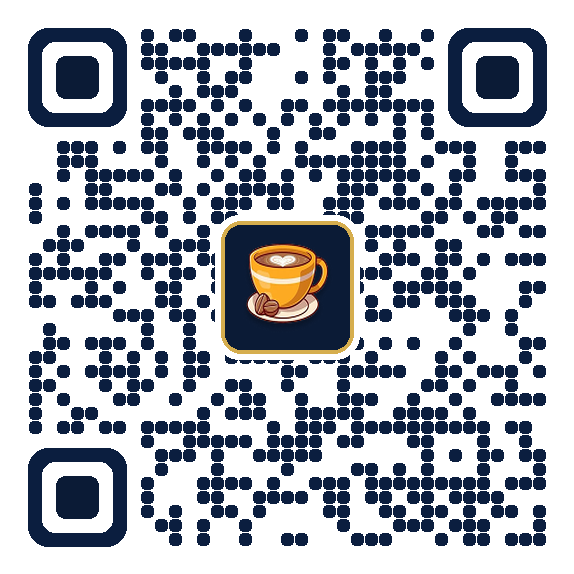
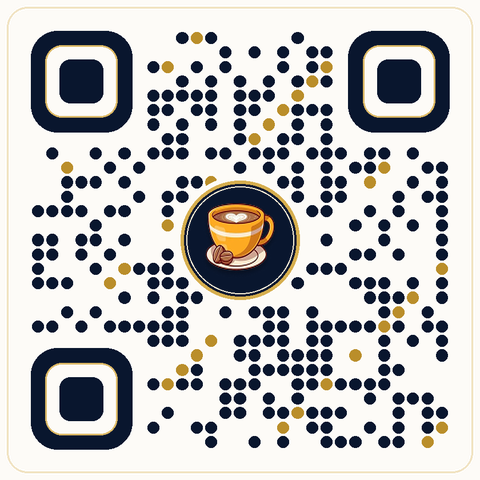
v5 Masterpiece: 29x29 airy pearl-dot gold-accented QR, fountain-pen autograph, warm ivory client chrome

diff --git a/index.html b/index.html
@@ -168,21 +168,21 @@
   }
 
   .desktop-window {
-    background: #FFFFFF;
+    background: #FDFCF9;
     border-radius: 20px;
-    border: 1px solid rgba(255, 255, 255, 0.14);
+    border: 1px solid rgba(214, 174, 78, 0.22);
     box-shadow:
-      0 32px 70px rgba(2, 8, 20, 0.55),
-      0 4px 16px rgba(2, 8, 20, 0.25);
+      0 36px 80px rgba(2, 8, 20, 0.62),
+      0 4px 18px rgba(2, 8, 20, 0.28);
     overflow: hidden;
     display: flex;
     flex-direction: column;
   }
 
   .win-chrome {
-    background: #F7F8FA;
-    border-bottom: 1px solid #EAEEF4;
-    padding: 13px 24px;
+    background: linear-gradient(180deg, #F7F5F0 0%, #EFECE4 100%);
+    border-bottom: 1px solid #E4DEC9;
+    padding: 13px 26px;
     display: flex;
     align-items: center;
     justify-content: space-between;
@@ -353,15 +353,16 @@
   }
 
   .calligraphy-row {
-    display: inline-flex;
-    flex-direction: column;
+    display: flex;
+    align-items: center;
+    justify-content: space-between;
     margin-bottom: 4px;
   }
 
   .calligraphy-greeting {
     font-family: 'Cormorant Garamond', Georgia, serif;
     font-style: italic;
-    font-size: 22px;
+    font-size: 21px;
     font-weight: 600;
     color: #9A7220;
     line-height: 1;
@@ -369,9 +370,17 @@
   }
 
   .calligraphy-flourish {
-    width: 138px;
-    height: 9px;
+    width: 132px;
+    height: 8px;
     margin-top: 3px;
+    display: block;
+  }
+
+  .autograph-svg {
+    width: 112px;
+    height: 36px;
+    overflow: visible;
+    opacity: 0.92;
   }
 
   .exec-name {
@@ -498,36 +507,54 @@
   /* Column 3: Sartorial Midnight Navy & Gold Foil Coffee Pass */
   .coffee-ticket {
     width: 196px;
-    background: linear-gradient(160deg, #112448 0%, #081328 100%);
-    border: 1px solid rgba(214, 174, 78, 0.38);
+    background:
+      radial-gradient(circle at 50% 38%, rgba(214, 174, 78, 0.14) 0%, transparent 68%),
+      linear-gradient(160deg, #12264C 0%, #071124 100%);
+    border: 1px solid rgba(214, 174, 78, 0.45);
     border-radius: 16px;
-    padding: 14px 13px 13px;
+    padding: 13px 13px 13px;
     text-align: center;
     position: relative;
     box-shadow:
-      0 16px 32px rgba(6, 16, 34, 0.22),
-      inset 0 1px 0 rgba(255, 255, 255, 0.12);
+      0 18px 36px rgba(6, 16, 34, 0.26),
+      inset 0 0 0 3px rgba(214, 174, 78, 0.08),
+      inset 0 1px 0 rgba(255, 255, 255, 0.16);
   }
 
   .ticket-header {
-    display: inline-flex;
+    display: flex;
     align-items: center;
-    justify-content: center;
-    gap: 6px;
-    font-size: 9.5px;
+    justify-content: space-between;
+    font-size: 8.5px;
     font-weight: 800;
-    letter-spacing: 0.2em;
+    letter-spacing: 0.16em;
     text-transform: uppercase;
     color: #E8C66A;
-    margin-bottom: 10px;
+    margin-bottom: 9px;
+    padding: 0 2px;
   }
 
-  .ticket-header svg {
-    width: 13px;
-    height: 13px;
+  .ticket-header-left {
+    display: inline-flex;
+    align-items: center;
+    gap: 5px;
+  }
+
+  .ticket-header-left svg {
+    width: 12px;
+    height: 12px;
     stroke: #E8C66A;
     stroke-width: 1.8;
     fill: none;
+  }
+
+  .ticket-serial {
+    font-family: 'Cormorant Garamond', Georgia, serif;
+    font-style: italic;
+    font-size: 11px;
+    font-weight: 700;
+    letter-spacing: 0.06em;
+    color: rgba(246, 230, 188, 0.78);
   }
 
   .ticket-qr-frame {
@@ -1022,14 +1049,29 @@
                 <!-- Column 2: Editorial Bio & Custom 1.5px Vector Contact Matrix -->
                 <td class="bio-col" valign="middle">
                   <div class="calligraphy-row">
-                    <span class="calligraphy-greeting">Cheers &amp; coffee soon,</span>
-                    <svg class="calligraphy-flourish" viewBox="0 0 140 10" fill="none" xmlns="http://www.w3.org/2000/svg">
-                      <path d="M2 7.5C38 2.2 88 1.8 138 6.2" stroke="url(#penGrad)" stroke-width="1.8" stroke-linecap="round"/>
+                    <div>
+                      <span class="calligraphy-greeting">Cheers &amp; coffee soon,</span>
+                      <svg class="calligraphy-flourish" viewBox="0 0 140 10" fill="none" xmlns="http://www.w3.org/2000/svg">
+                        <path d="M2 7.5C38 2.2 88 1.8 138 6.2" stroke="url(#penGrad)" stroke-width="1.8" stroke-linecap="round"/>
+                        <defs>
+                          <linearGradient id="penGrad" x1="2" y1="5" x2="138" y2="5" gradientUnits="userSpaceOnUse">
+                            <stop offset="0%" stop-color="#C59B27"/>
+                            <stop offset="75%" stop-color="#D6AE4E" stop-opacity="0.65"/>
+                            <stop offset="100%" stop-color="#D6AE4E" stop-opacity="0"/>
+                          </linearGradient>
+                        </defs>
+                      </svg>
+                    </div>
+                    <!-- Bespoke Fountain-Pen Calligraphic Autograph ("Tanya") -->
+                    <svg class="autograph-svg" viewBox="0 0 150 48" fill="none" xmlns="http://www.w3.org/2000/svg" aria-hidden="true">
+                      <path d="M14 14C34 10 58 8 76 11M42 10C37 22 31 35 28 42C27 44 31 44 36 39" stroke="#112448" stroke-width="2.1" stroke-linecap="round" stroke-linejoin="round" opacity="0.82"/>
+                      <path d="M44 31C48 25 54 25 53 31C52 35 46 36 45 32C44 29 50 28 54 33C57 36 61 30 64 26C65 30 64 34 65 35C66 36 70 27 73 27C75 27 75 34 78 34C81 34 86 27 88 26C89 31 86 41 81 44C77 46 76 41 82 37C90 32 98 26 102 26C106 26 101 34 105 34C109 34 118 29 128 26" stroke="#112448" stroke-width="1.85" stroke-linecap="round" stroke-linejoin="round" opacity="0.82"/>
+                      <path d="M22 44C56 38 98 35 142 39" stroke="url(#autoGold)" stroke-width="1.5" stroke-linecap="round"/>
                       <defs>
-                        <linearGradient id="penGrad" x1="2" y1="5" x2="138" y2="5" gradientUnits="userSpaceOnUse">
-                          <stop offset="0%" stop-color="#C59B27"/>
-                          <stop offset="75%" stop-color="#D6AE4E" stop-opacity="0.65"/>
-                          <stop offset="100%" stop-color="#D6AE4E" stop-opacity="0"/>
+                        <linearGradient id="autoGold" x1="22" y1="40" x2="142" y2="40" gradientUnits="userSpaceOnUse">
+                          <stop offset="0%" stop-color="#C59B27" stop-opacity="0.2"/>
+                          <stop offset="45%" stop-color="#C59B27" stop-opacity="0.9"/>
+                          <stop offset="100%" stop-color="#C59B27" stop-opacity="0"/>
                         </linearGradient>
                       </defs>
                     </svg>
@@ -1100,8 +1142,11 @@
                 <td width="196" valign="middle" align="center" style="width:196px;">
                   <div class="coffee-ticket">
                     <div class="ticket-header">
-                      <svg viewBox="0 0 24 24"><path d="M17 8h1a4 4 0 1 1 0 8h-1"/><path d="M3 8h14v9a4 4 0 0 1-4 4H7a4 4 0 0 1-4-4Z"/><line x1="6" y1="2" x2="6" y2="4"/><line x1="10" y1="2" x2="10" y2="4"/><line x1="14" y1="2" x2="14" y2="4"/></svg>
-                      <span>Coffee Pass</span>
+                      <span class="ticket-header-left">
+                        <svg viewBox="0 0 24 24"><path d="M17 8h1a4 4 0 1 1 0 8h-1"/><path d="M3 8h14v9a4 4 0 0 1-4 4H7a4 4 0 0 1-4-4Z"/><line x1="6" y1="2" x2="6" y2="4"/><line x1="10" y1="2" x2="10" y2="4"/><line x1="14" y1="2" x2="14" y2="4"/></svg>
+                        <span>Coffee Pass</span>
+                      </span>
+                      <span class="ticket-serial">No. 08</span>
                     </div>
                     <a class="ticket-qr-frame" href="https://advertisingandmore.com/#contactform" target="_blank">
                       <img src="./assets/qr-luxury-navy.png" alt="Scan for Coffee">
